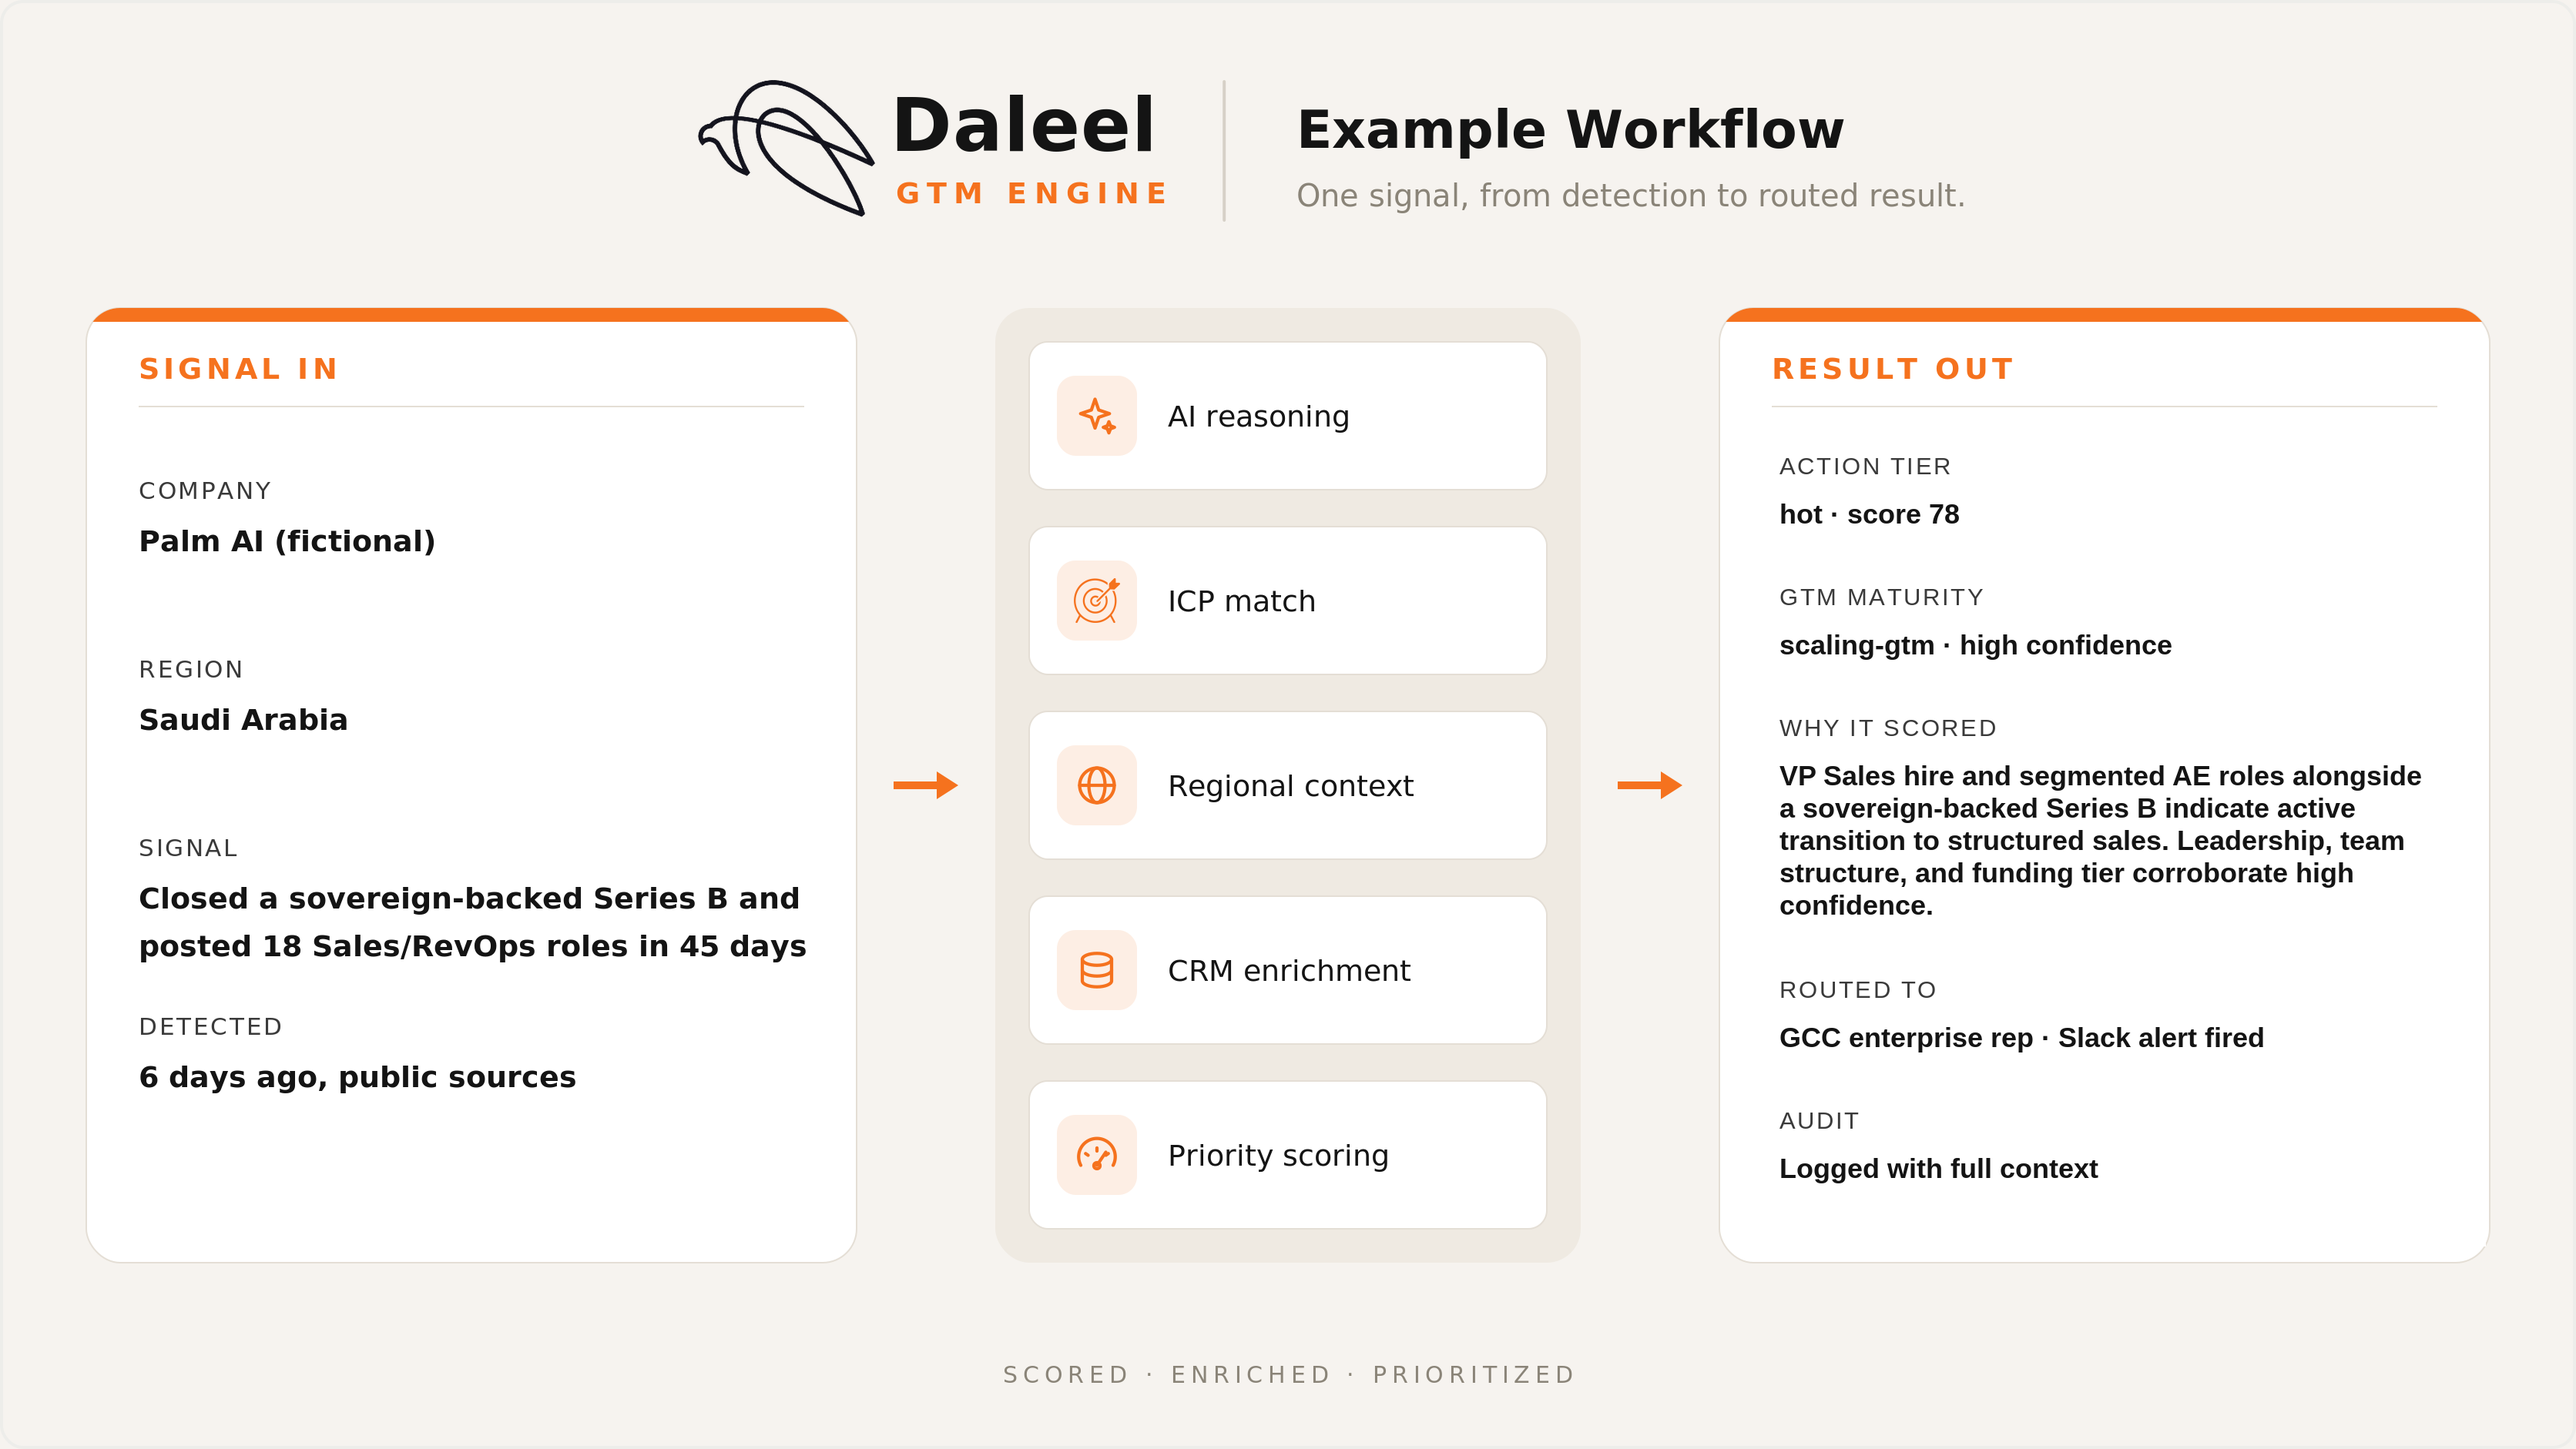
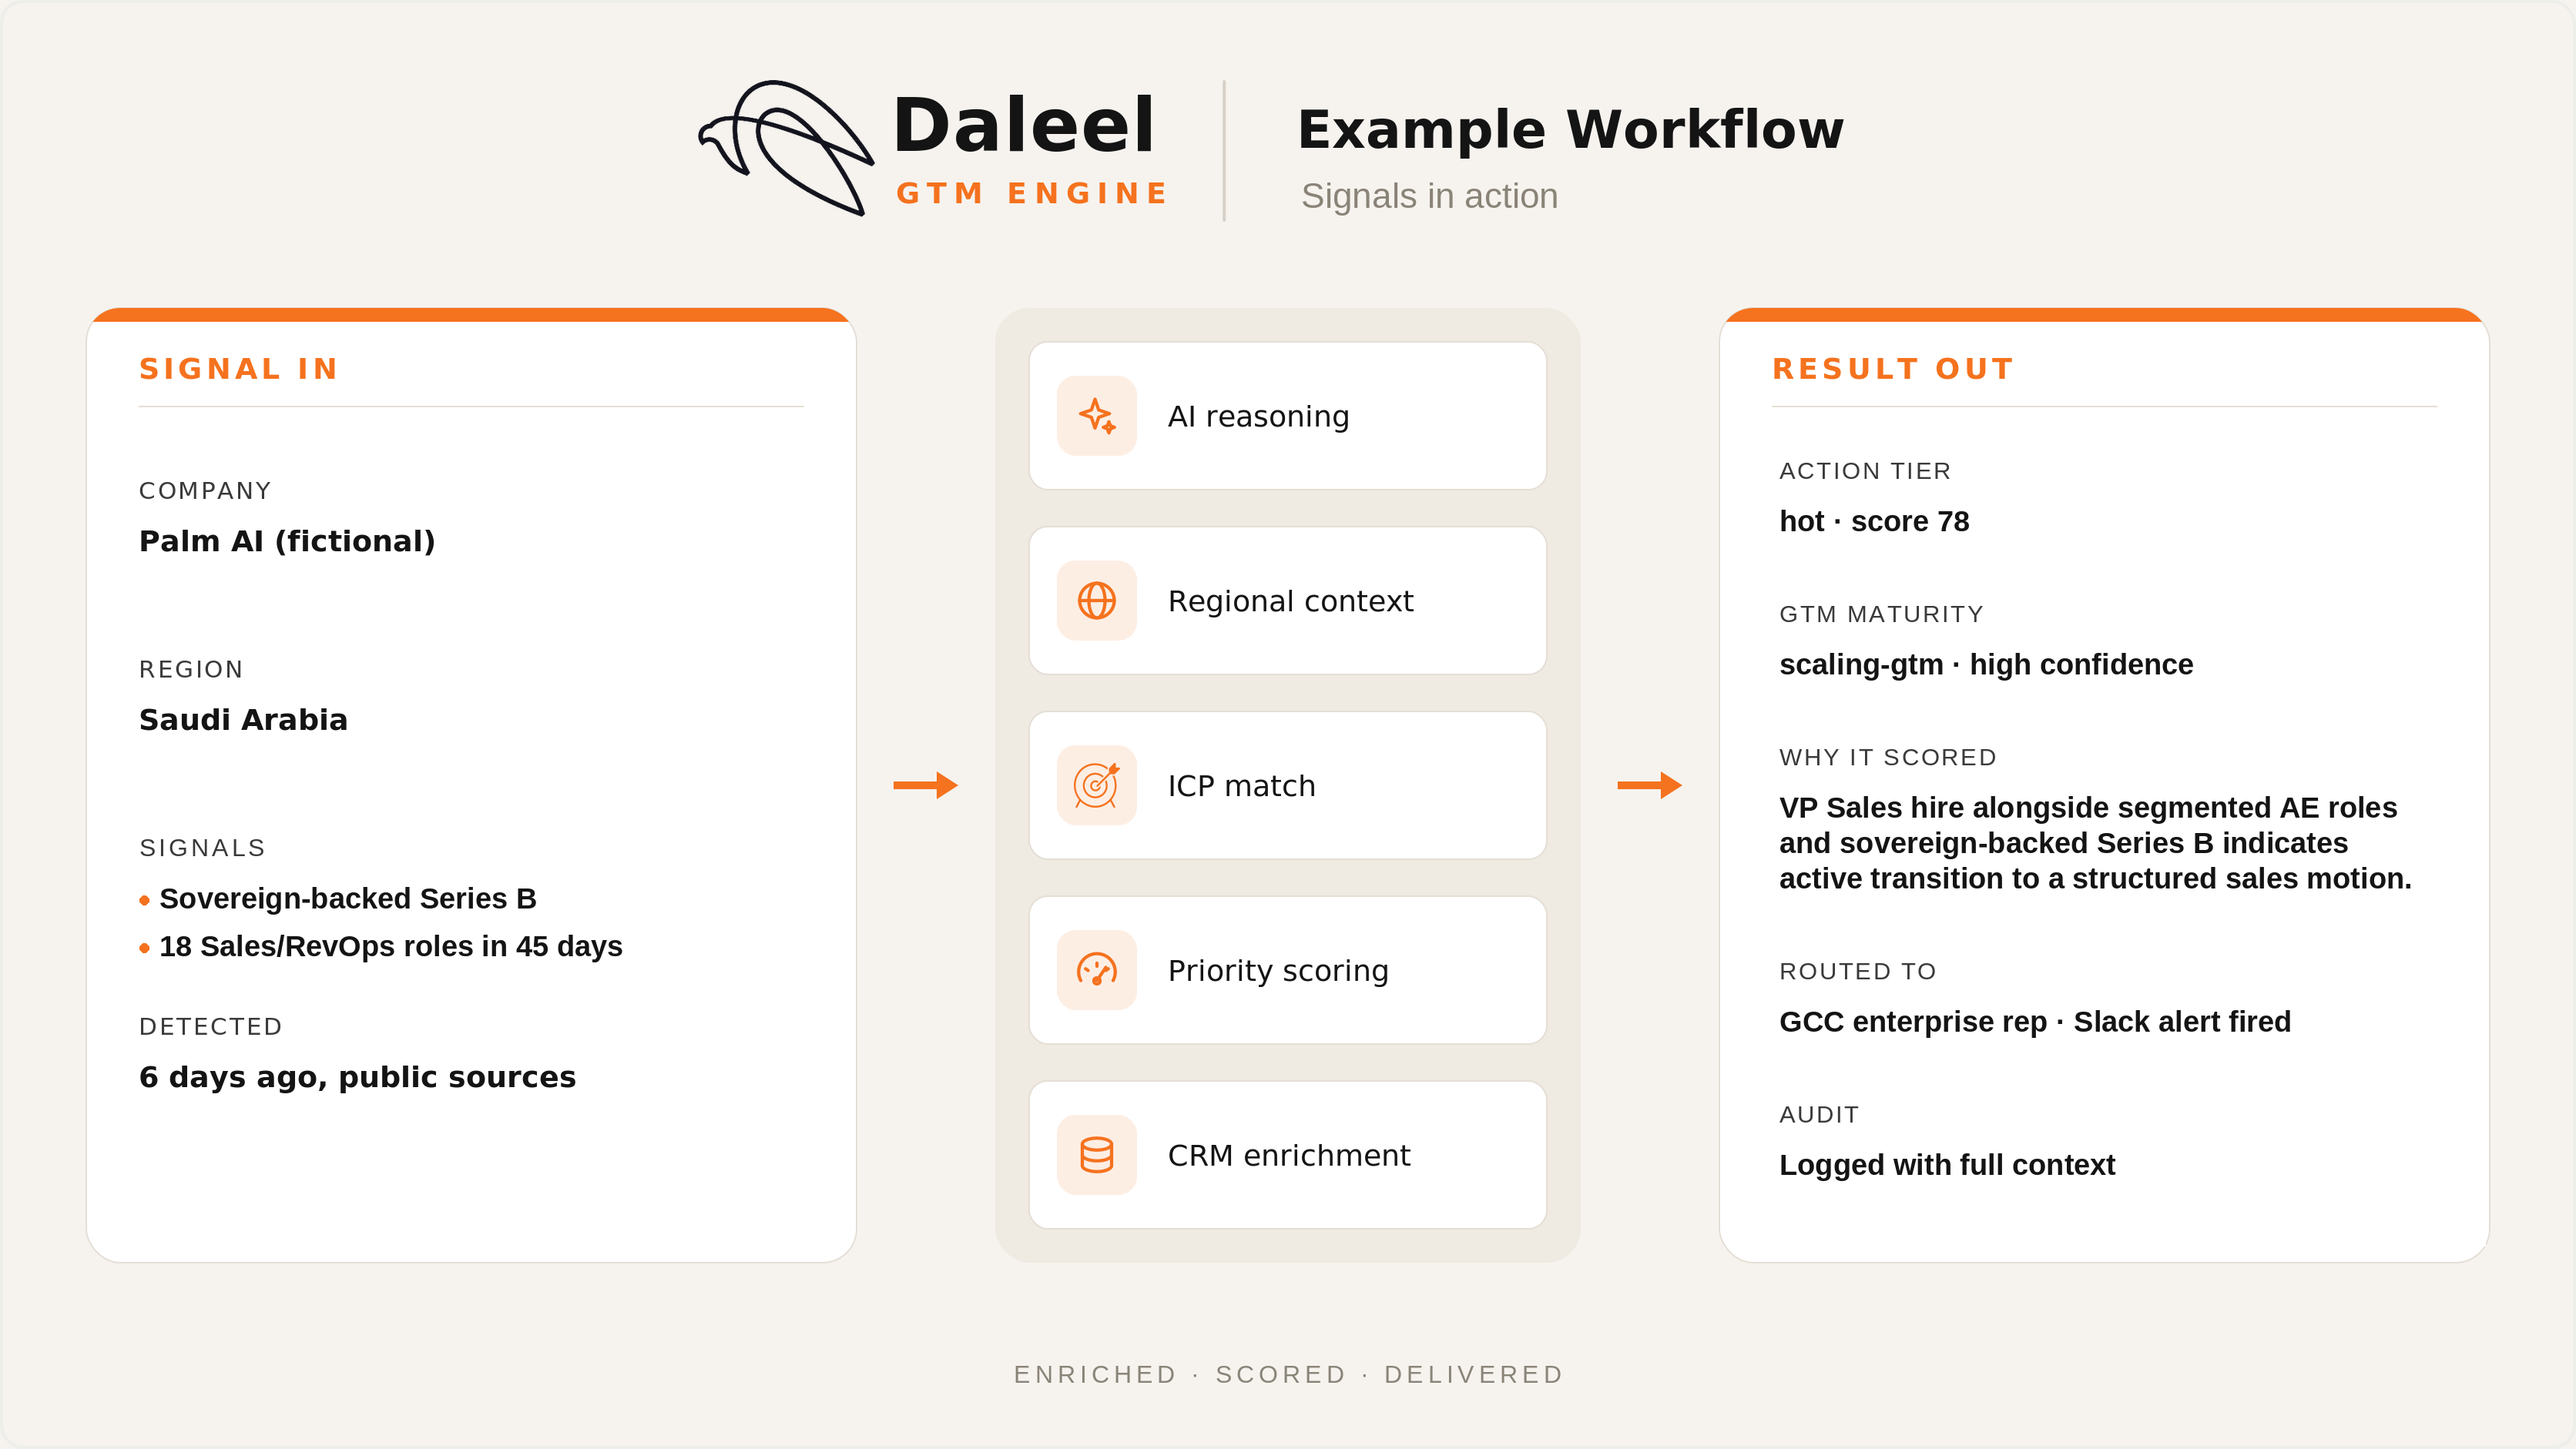
Update pipeline stage names, fix content ordering, refresh diagrams
- Rename pipeline stages for clarity
- Fix ordering inconsistencies in copy and diagrams
- Add audience-clarifying line to README
- Update pipeline-flow.png and example-workflow.png

diff --git a/README.md b/README.md
@@ -1,6 +1,6 @@
 # GTM Engine
 
-> Automated prospect intelligence pipeline for regional go-to-market expansion.
+> Automated prospect intelligence pipeline for regional go-to-market expansion, built for teams as the signal layer inside your revenue orchestration stack.
 
 [![Status](https://img.shields.io/badge/status-active--build-89bd93)]()
 [![Docs](https://img.shields.io/badge/docs-architecture%20%26%20governance-b09bd6)]()
@@ -17,7 +17,11 @@ Daleel's GTM Engine continuously monitors publicly available signals across the 
 
 Built agentic: the Engine reasons, infers, routes, and acts on the team's behalf, writing records and routing alerts. A named agent schedules health checks across the pipeline and surfaces what needs attention.
 
-Signal in. Scored. Enriched. Routed. Every run.
+Teams selling into revenue and sales orgs use Daleel's engine signals to see who's actively scaling, and how ready they are to buy.
+
+Current platforms are built for markets that already have deep, structured coverage. The Gulf's AI and software economy is one of the fastest-growing in the world, but stands uncovered. We are building for that gap.
+
+Signal in. Enriched. Scored. Routed. Every run.
 
 ![Ongoing build activity from the private repository this public repo documents](./images/build-activity.png)
 
@@ -29,7 +33,7 @@ See [`docs/design-principles.md`](./docs/design-principles.md) for the full list
 
 ## Architecture Overview
 
-![Five-stage pipeline: Signal Sources, Enrichment & AI Reasoning, ICP Match & Scoring, CRM Enrichment, Delivery & Action](./images/pipeline-flow.png)
+![Five-stage pipeline: Signal Sources, AI Reasoning & Enrichment, ICP Match & Scoring, CRM Write & Audit, Delivery & Action](./images/pipeline-flow.png)
 
 Five capability stages. Every handoff between them is validated before the next begins. See [`architecture/data-flow.md`](./architecture/data-flow.md).
 
@@ -53,7 +57,7 @@ See [`docs/ai-components.md`](./docs/ai-components.md): capability-first, tools 
 
 ## Example Workflow
 
-![Illustrative example: a signal comes in, the pipeline scores and enriches it, and a prioritized result is routed to a rep](./images/example-workflow.png)
+![Illustrative example: a signal comes in, the pipeline enriches and scores it, and a prioritized result is routed to a rep](./images/example-workflow.png)
 
 *Illustrative example, fictional company, no real data. See `/examples` for the fictional input/output pair and the webhook payload contract.*
 

diff --git a/images/README.md b/images/README.md
@@ -1,3 +1,3 @@
-- `pipeline-flow.png` — the five-stage capability pipeline referenced in the root README's "Architecture Overview" section. Signal Sources → Enrichment & AI Reasoning → ICP Match & Scoring → CRM Enrichment → Delivery & Action. Capability-labeled only; no signal source is named. The `BUILT ON` row identifies the platforms the system actually runs on, third-party marks appear for identification of real integrations only.
+- `pipeline-flow.png` — the five-stage capability pipeline referenced in the root README's "Architecture Overview" section. Signal Sources → AI Reasoning & Enrichment → ICP Match & Scoring → CRM Write & Audit → Delivery & Action. Capability-labeled only; no signal source is named. The `BUILT ON` row identifies the platforms the system actually runs on, third-party marks appear for identification of real integrations only.
 - `example-workflow.png` — illustrative before/after snapshot, a fictional signal in, a scored and routed result out. Referenced in the README's "Example Workflow" section. Fictional company, no real data.
 - `build-activity.png` — real build activity from the private working repository this public repo documents. Referenced near the top of the root README, right after "What It Does."

diff --git a/architecture/component-map.md b/architecture/component-map.md
@@ -7,9 +7,9 @@ Who owns what, at a capability level.
 | # | Stage                     | Responsibility                                          |
 |---|---------------------------|---------------------------------------------------------|
 | 1 | Signal Sources            | Detect and normalize raw external signals               |
-| 2 | Enrichment & AI Reasoning | Resolve entities, gather context, extract structure     |
+| 2 | AI Reasoning & Enrichment | Resolve entities, gather context, extract structure     |
 | 3 | ICP Match & Scoring       | Judge fit against the profile, assign a priority tier   |
-| 4 | CRM Enrichment            | Enforce the output contract, hold current account state |
+| 4 | CRM Write & Audit         | Enforce the output contract, hold current account state |
 | 5 | Delivery & Action         | Route what matters to the people who act on it          |
 
 ## Pipeline-wide

diff --git a/architecture/data-flow.md b/architecture/data-flow.md
@@ -8,13 +8,13 @@
 Signal Sources
       │
       ▼
-Enrichment & AI Reasoning
+AI Reasoning & Enrichment
       │
       ▼
 ICP Match & Scoring
       │
       ▼
-CRM Enrichment
+CRM Write & Audit
       │
       ▼
 Delivery & Action
